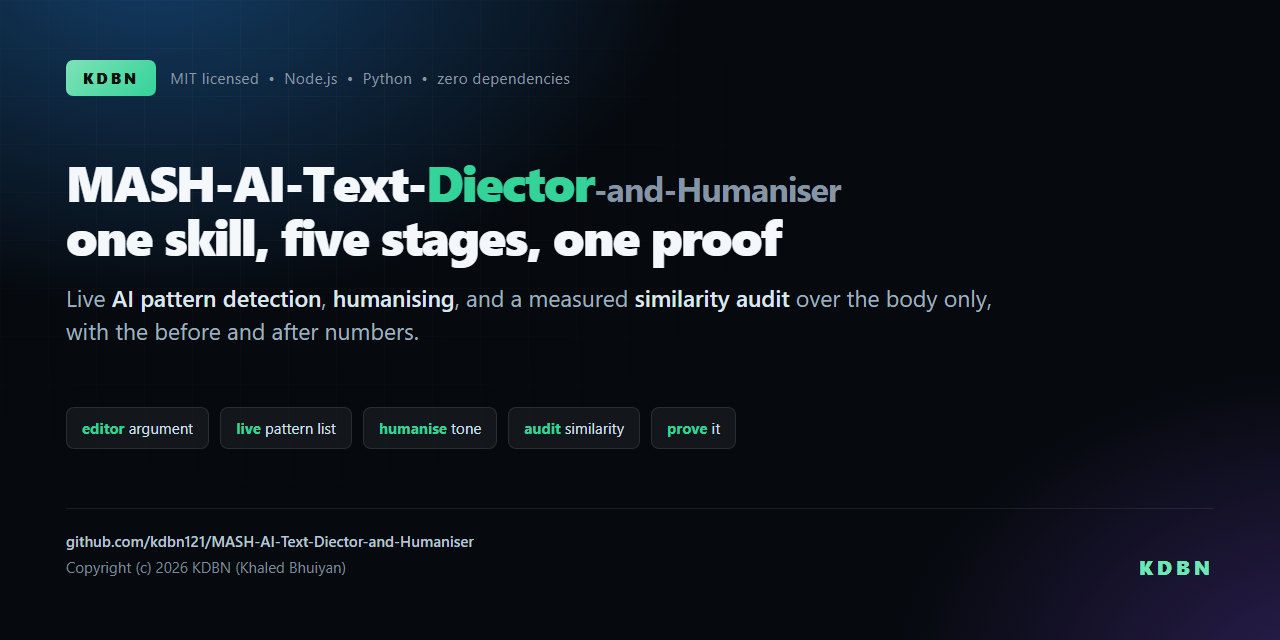
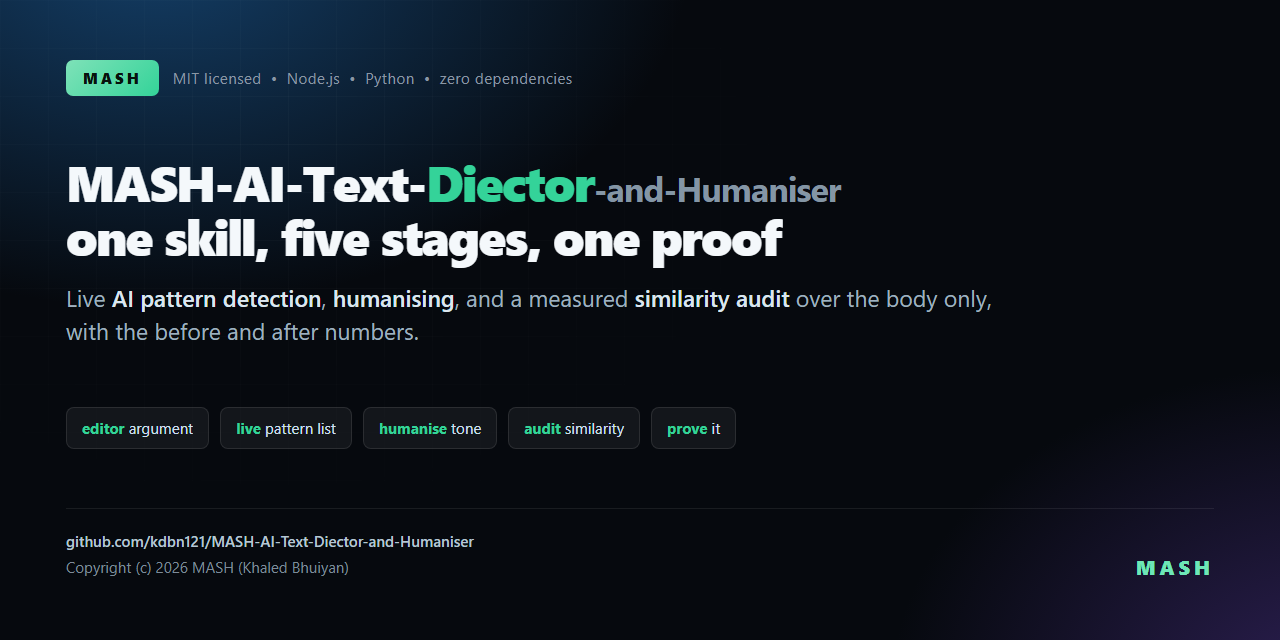
chore set the copyright holder and brand mark to MASH (Khaled Bhuiyan)

diff --git a/docs/images/source/card.html b/docs/images/source/card.html
@@ -63,7 +63,7 @@
   <div class="grid-bg"></div>
 
   <div class="row">
-    <span class="badge">KDBN</span>
+    <span class="badge">MASH</span>
     <span class="tag">MIT licensed &nbsp;&bull;&nbsp; Node.js 18+ &nbsp;&bull;&nbsp; Python 3.9+ &nbsp;&bull;&nbsp; zero dependencies &nbsp;&bull;&nbsp; works offline</span>
   </div>
 
@@ -88,9 +88,9 @@
   <div class="foot">
     <div class="left">
       <b>github.com/kdbn121/MASH-AI-Text-Diector-and-Humaniser</b><br>
-      Copyright (c) 2026 KDBN (Khaled Bhuiyan)
+      Copyright (c) 2026 MASH (Khaled Bhuiyan)
     </div>
-    <div class="kdbn">KDBN</div>
+    <div class="kdbn">MASH</div>
   </div>
 </body>
 </html>

diff --git a/docs/images/source/social-preview.html b/docs/images/source/social-preview.html
@@ -59,7 +59,7 @@
   <div class="grid-bg"></div>
 
   <div class="row">
-    <span class="badge">KDBN</span>
+    <span class="badge">MASH</span>
     <span class="tag">MIT licensed &nbsp;&bull;&nbsp; Node.js &nbsp;&bull;&nbsp; Python &nbsp;&bull;&nbsp; zero dependencies</span>
   </div>
 
@@ -79,9 +79,9 @@
   <div class="foot">
     <div class="left">
       <b>github.com/kdbn121/MASH-AI-Text-Diector-and-Humaniser</b><br>
-      Copyright (c) 2026 KDBN (Khaled Bhuiyan)
+      Copyright (c) 2026 MASH (Khaled Bhuiyan)
     </div>
-    <div class="kdbn">KDBN</div>
+    <div class="kdbn">MASH</div>
   </div>
 </body>
 </html>

diff --git a/docs/images/source/chain-diagram.html b/docs/images/source/chain-diagram.html
@@ -105,7 +105,7 @@
 
   <div class="foot">
     <div class="scope"><b>Body only.</b> The cover page, also called the title page, the contents page and the reference list are excluded from every measurement and every rewrite.</div>
-    <div class="kdbn">KDBN</div>
+    <div class="kdbn">MASH</div>
   </div>
 </body>
 </html>

diff --git a/references/transformation-rules.md b/references/transformation-rules.md
@@ -87,7 +87,7 @@ producing "the results analyses show".
 
 The banks live in `rules/` as plain JSON, so a user can extend them for their own
 discipline without touching any code. Every bank carries a `_copyright` key so the
-KDBN mark travels with the data. A bank whose data is a list stores it under
+MASH mark travels with the data. A bank whose data is a list stores it under
 `items`.
 
 **No bank may produce a phrase that the audit flags as a machine marker.** The
@@ -506,4 +506,4 @@ untouched runs between them, and an untouched run of 8 words is still a match.
 
 ---
 
-*Copyright (c) 2026 KDBN (Khaled Bhuiyan). All rights reserved. Licensed under the MIT Licence.*
+*Copyright (c) 2026 MASH (Khaled Bhuiyan). All rights reserved. Licensed under the MIT Licence.*

diff --git a/docs/UPLOAD-SHEET.md b/docs/UPLOAD-SHEET.md
@@ -73,7 +73,7 @@ Everything you need to create the repository on github.com and push the folder.
 ## What the folder already contains
 
 - A clean git history on the branch `main`, two commits, no working copy changes.
-- The MIT LICENSE with the KDBN mark.
+- The MIT LICENSE with the MASH mark.
 - The CI workflow, the issue templates, the pull request template and CODEOWNERS.
 - The photo card, the social preview and the chain diagram as PNGs.
 - The HTML sources and the render script, so the images can be regenerated.

diff --git a/agents/academic-editor.md b/agents/academic-editor.md
@@ -32,4 +32,4 @@ Work with the chain: `ai-text-humanizer` for tone and the named AI patterns,
 `plagiarism-minimiser-kdbn` for similarity and the rewrite of the user's own
 prose, `live-ai-pattern-check` for the live pattern source and the live checkers.
 
-<!-- SPDX-License-Identifier: MIT | Copyright (c) 2026 KDBN (Khaled Bhuiyan) -->
+<!-- SPDX-License-Identifier: MIT | Copyright (c) 2026 MASH (Khaled Bhuiyan) -->

diff --git a/references/format-protection.md b/references/format-protection.md
@@ -181,4 +181,4 @@ If the document uses -ise endings, every rewrite uses -ise endings.
 
 ---
 
-*Copyright (c) 2026 KDBN (Khaled Bhuiyan). All rights reserved. Licensed under the MIT Licence.*
+*Copyright (c) 2026 MASH (Khaled Bhuiyan). All rights reserved. Licensed under the MIT Licence.*

diff --git a/references/plagiarism-minimiser-procedure.md b/references/plagiarism-minimiser-procedure.md
@@ -512,4 +512,4 @@ Script reference:
 
 ---
 
-*Copyright (c) 2026 KDBN (Khaled Bhuiyan). All rights reserved. Licensed under the MIT Licence.*
+*Copyright (c) 2026 MASH (Khaled Bhuiyan). All rights reserved. Licensed under the MIT Licence.*

diff --git a/references/detection-mechanics.md b/references/detection-mechanics.md
@@ -173,4 +173,4 @@ cleared.
 
 ---
 
-*Copyright (c) 2026 KDBN (Khaled Bhuiyan). All rights reserved. Licensed under the MIT Licence.*
+*Copyright (c) 2026 MASH (Khaled Bhuiyan). All rights reserved. Licensed under the MIT Licence.*

diff --git a/README.md b/README.md
@@ -202,7 +202,7 @@ offline, zero dependencies, English academic writing, Word document, batch audit
 
 ## Licence
 
-MIT. Copyright (c) 2026 KDBN (Khaled Bhuiyan).
+MIT. Copyright (c) 2026 MASH (Khaled Bhuiyan).
 
 ## Links
 

diff --git a/SKILL.md b/SKILL.md
@@ -190,4 +190,4 @@ scripts are Python 3 with no third party packages. Use `node` and `python`, neve
 
 ## Licence
 
-MIT. Copyright (c) 2026 KDBN (Khaled Bhuiyan).
+MIT. Copyright (c) 2026 MASH (Khaled Bhuiyan).
